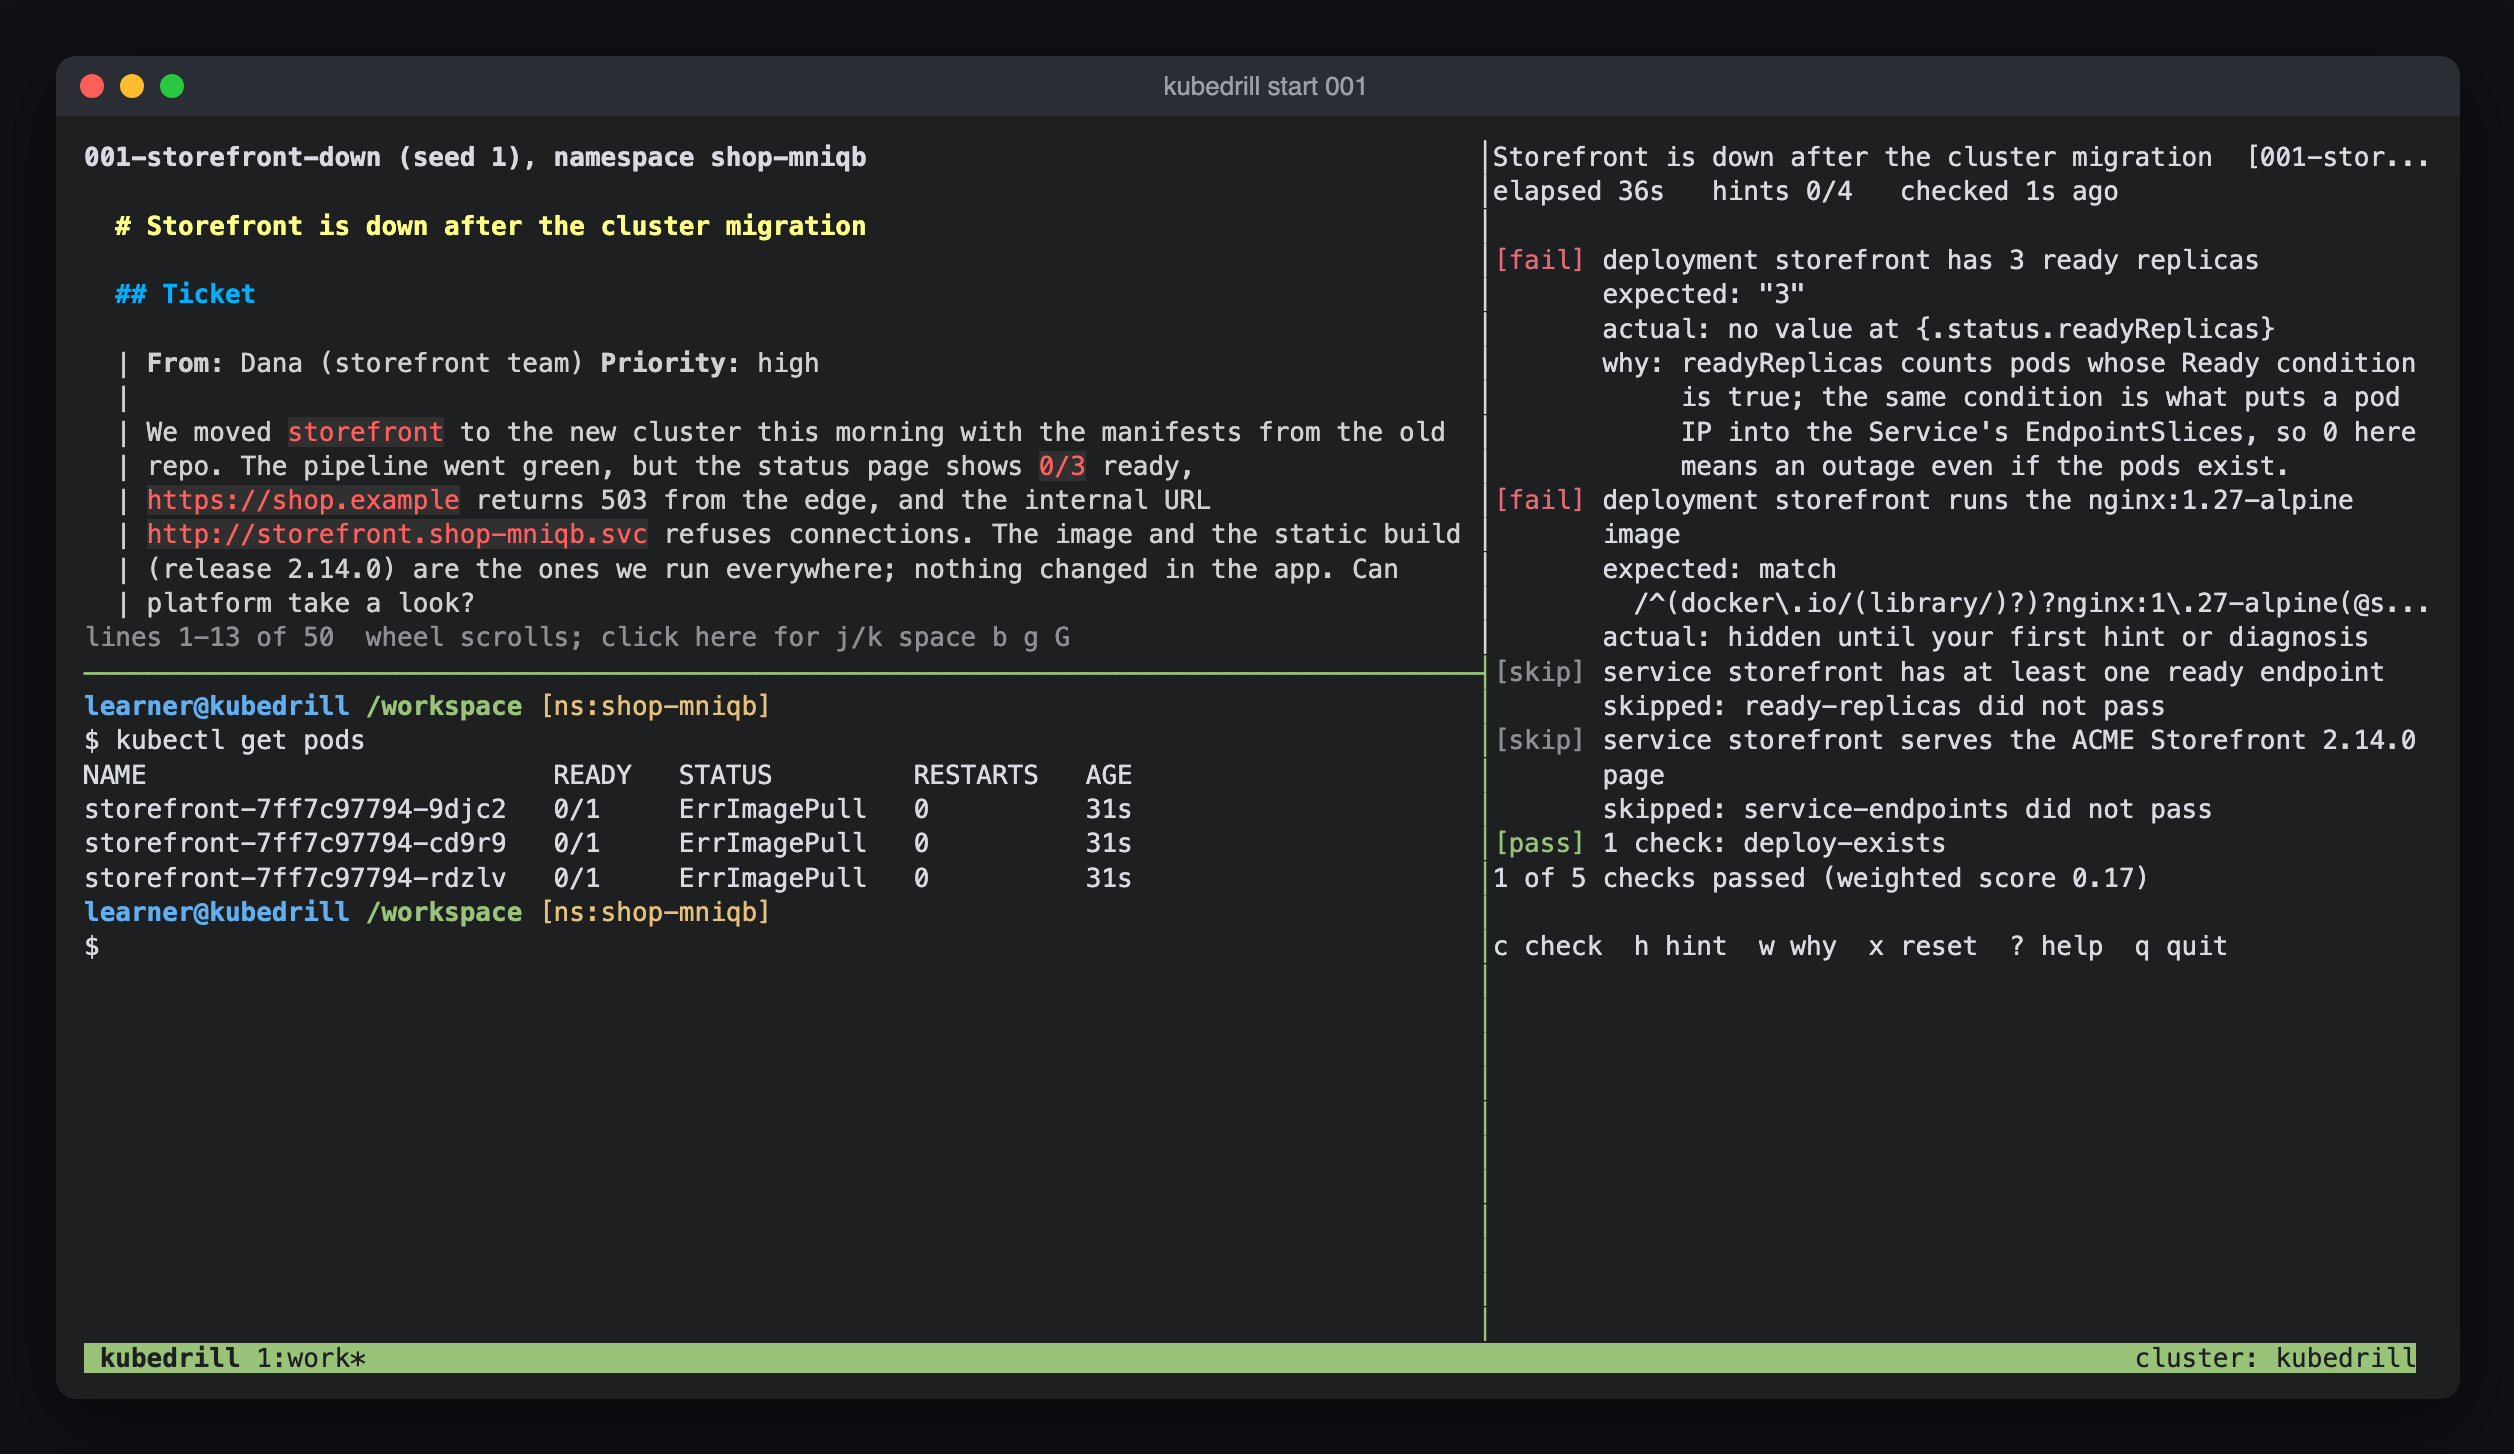
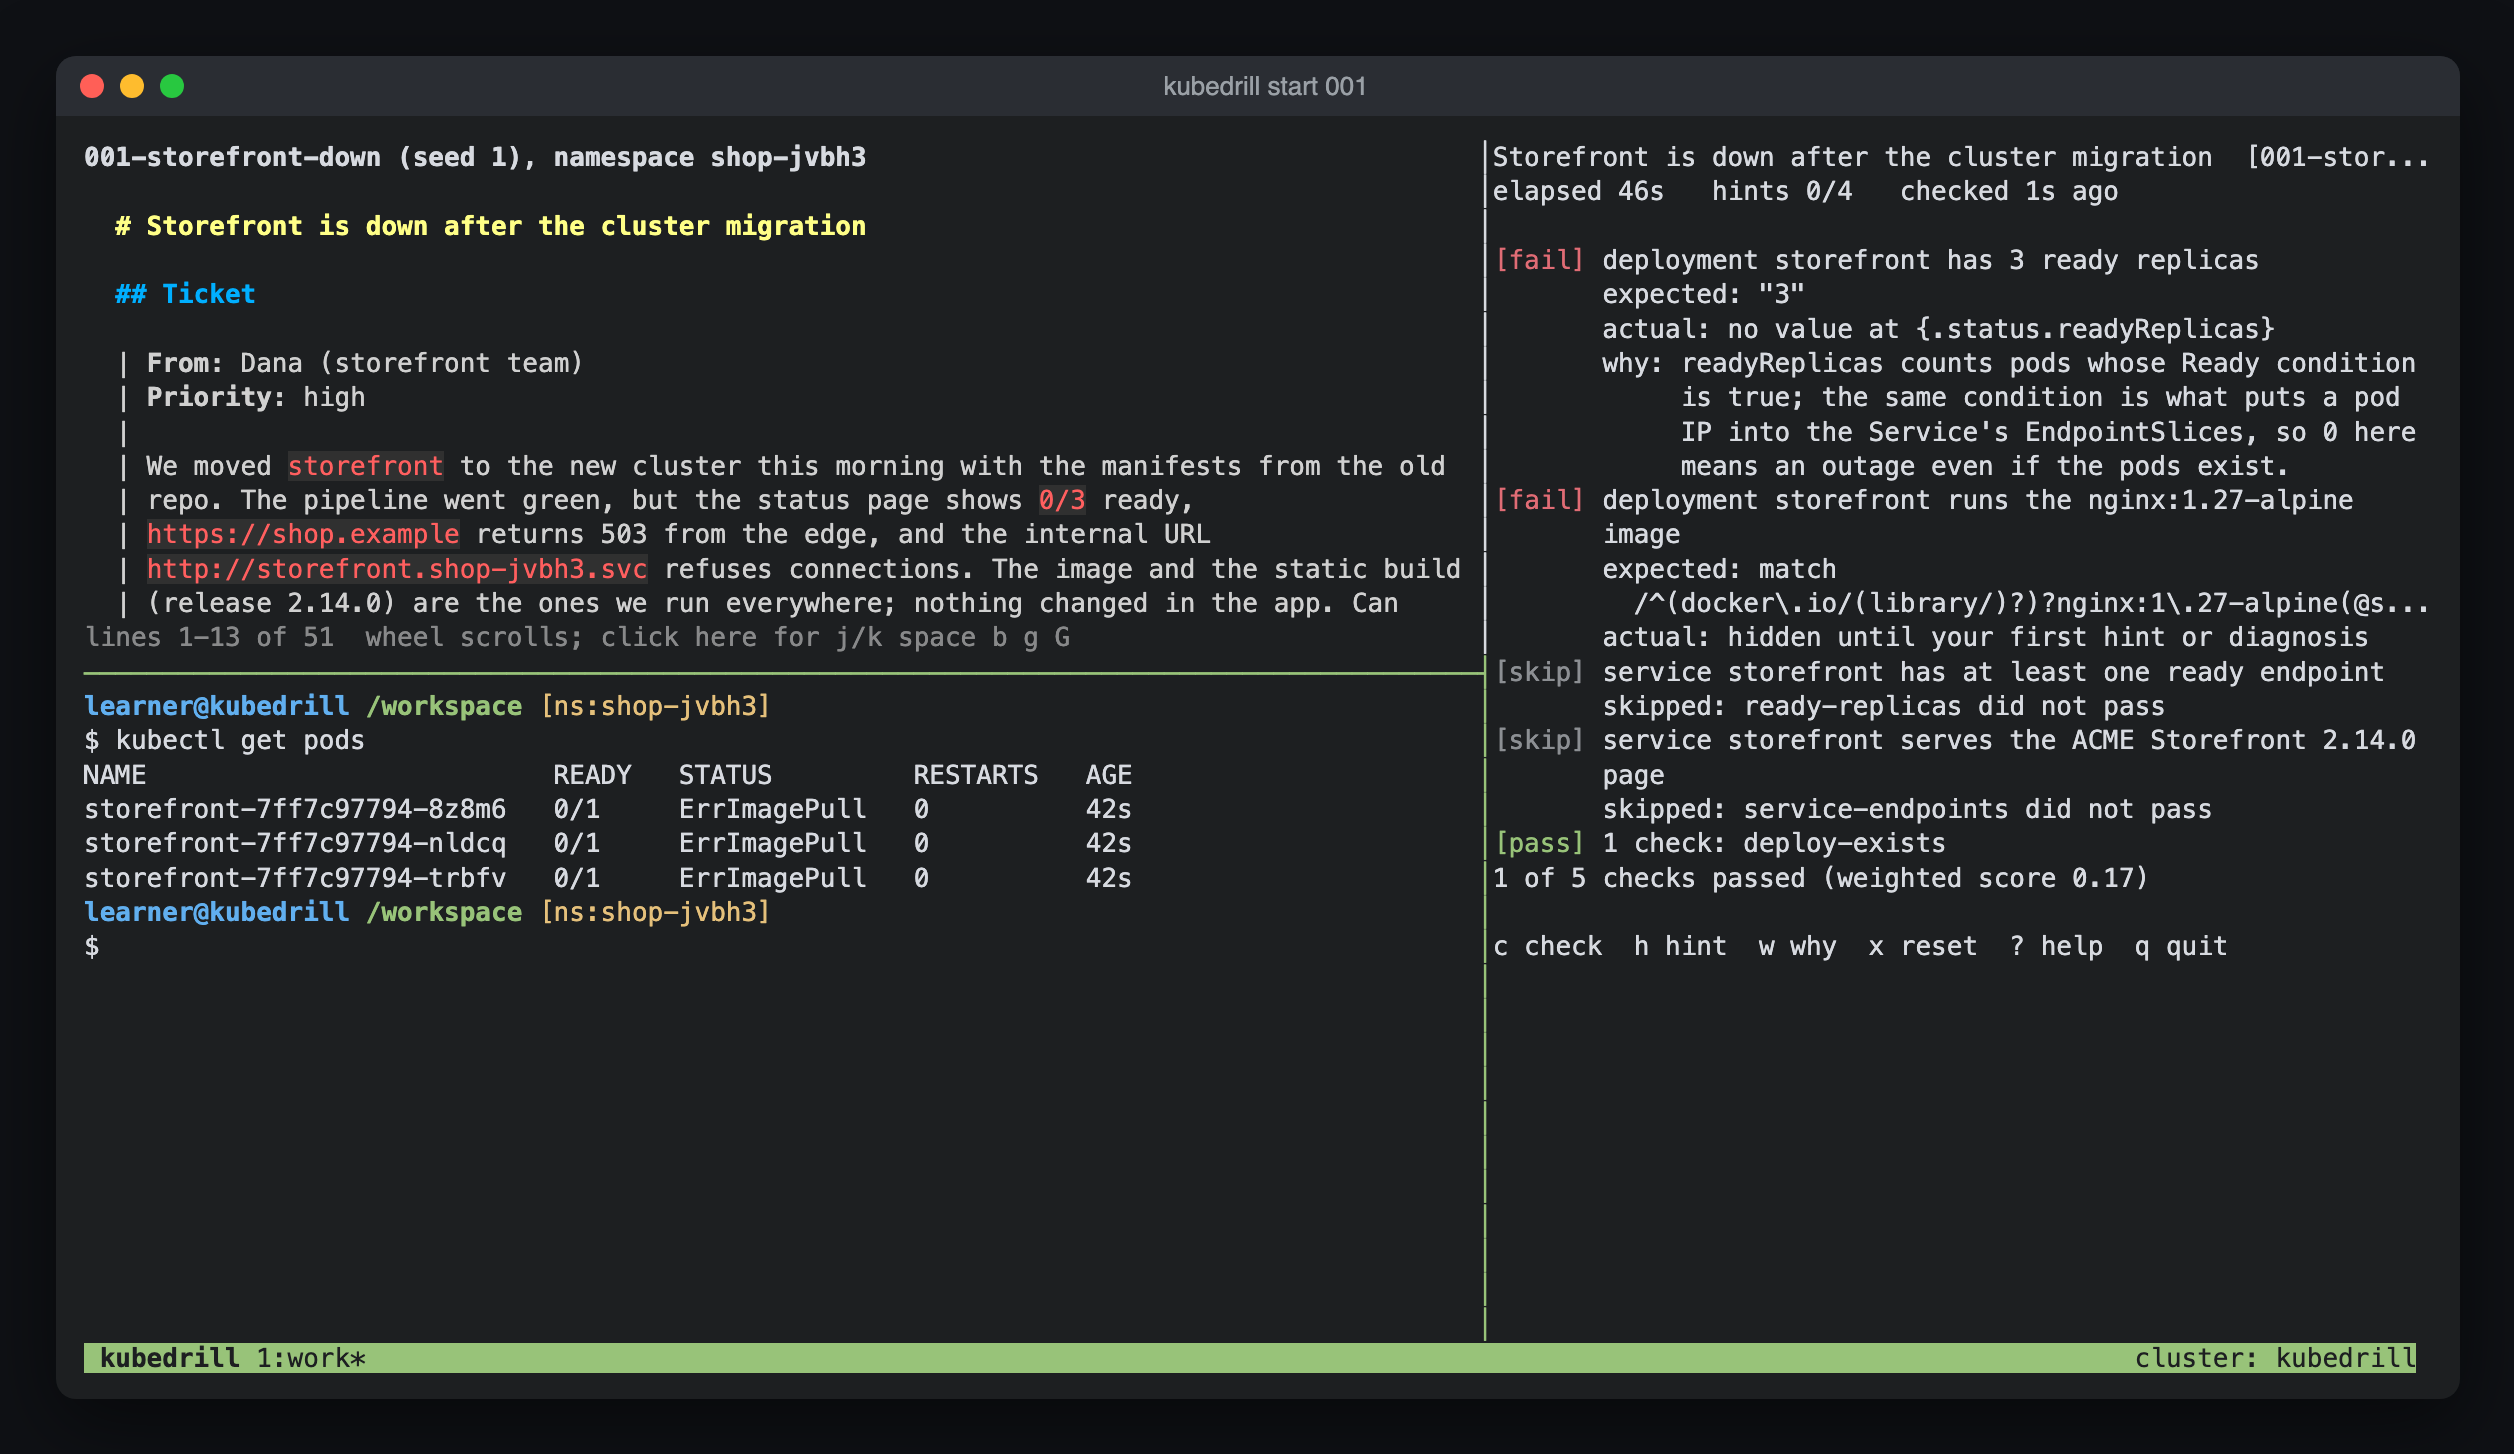
fix(render): keep markdown hard line breaks in rendered tickets

diff --git a/internal/render/markdown.go b/internal/render/markdown.go
@@ -48,6 +48,70 @@ func markdownStyle() ansi.StyleConfig {
 // rendered text is wrapped, so a span never breaks across lines.
 const codeSpace = '\uE000'
 
+// hardBreak stands for a markdown hard line break (a line ending in a
+// backslash or two spaces) while glamour renders, since glamour joins the
+// two lines with a space; splitHardBreaks turns it back into a line break.
+const hardBreak = '\uE001'
+
+// markHardBreaks replaces each hard line break outside fenced code blocks
+// with hardBreak: the trailing backslash or spaces of a line followed by a
+// non-blank line are removed and hardBreak is appended.
+func markHardBreaks(md string) string {
+	lines := strings.Split(md, "\n")
+	fence := ""
+	for i, l := range lines {
+		t := strings.TrimSpace(l)
+		if fence != "" {
+			if strings.HasPrefix(t, fence) {
+				fence = ""
+			}
+			continue
+		}
+		if strings.HasPrefix(t, "```") || strings.HasPrefix(t, "~~~") {
+			fence = t[:3]
+			continue
+		}
+		if i+1 >= len(lines) || strings.Trim(lines[i+1], " >") == "" || t == "" || t == ">" {
+			continue
+		}
+		switch {
+		case strings.HasSuffix(l, "\\") && !strings.HasSuffix(l, "\\\\"):
+			lines[i] = strings.TrimSuffix(l, "\\") + string(hardBreak)
+		case strings.HasSuffix(l, "  "):
+			lines[i] = strings.TrimRight(l, " ") + string(hardBreak)
+		}
+	}
+	return strings.Join(lines, "\n")
+}
+
+// leadingSpace matches the escape sequences and the one space glamour puts
+// after a hard break marker.
+var leadingSpace = regexp.MustCompile(`^((?:\x1b\[[0-9;]*m)*) `)
+
+// splitHardBreaks breaks every rendered line at hardBreak; the new line
+// repeats the margin and block quote bars of the line it came from.
+func splitHardBreaks(rendered string) string {
+	if !strings.ContainsRune(rendered, hardBreak) {
+		return rendered
+	}
+	lines := strings.Split(rendered, "\n")
+	out := make([]string, 0, len(lines))
+	for _, l := range lines {
+		parts := strings.Split(l, string(hardBreak))
+		if len(parts) == 1 {
+			out = append(out, l)
+			continue
+		}
+		m := linePrefix.FindStringSubmatch(StripANSI(l))
+		prefix := m[1] + m[2] + strings.Repeat(" ", len(m[3]))
+		out = append(out, parts[0])
+		for _, p := range parts[1:] {
+			out = append(out, prefix+leadingSpace.ReplaceAllString(p, "$1"))
+		}
+	}
+	return strings.Join(out, "\n")
+}
+
 // listMarker matches the start of a list item: a bullet or an ordered
 // marker after optional indentation.
 var listMarker = regexp.MustCompile(`^\s*(?:[-*+]|\d+[.)])\s+`)

diff --git a/internal/render/render_test.go b/internal/render/render_test.go
@@ -97,6 +97,39 @@ func TestMarkdownJoinsListContinuations(t *testing.T) {
 	}
 }
 
+func TestMarkdownKeepsHardLineBreaks(t *testing.T) {
+	tests := []struct {
+		name    string
+		md      string
+		want    []string
+		notWant []string
+	}{
+		{name: "backslash in a block quote", md: "> **From:** Dana (storefront team)\\\n> **Priority:** high\n>\n> We moved it.\n", want: []string{"| From: Dana (storefront team)\n", "| Priority: high\n"}, notWant: []string{"\uE001", "team) Priority"}},
+		{name: "two spaces in a paragraph", md: "From: Dana  \nPriority: high\n", want: []string{"From: Dana\n", "Priority: high\n"}, notWant: []string{"Dana Priority"}},
+		{name: "soft break stays a space", md: "From: Dana\nPriority: high\n", want: []string{"From: Dana Priority: high"}},
+		{name: "escaped backslash is no break", md: "path C:\\\\\nnext\n", want: []string{"next"}, notWant: []string{"\uE001"}},
+		{name: "backslash before a blank line", md: "end\\\n\nnext paragraph\n", want: []string{"next paragraph"}, notWant: []string{"\uE001"}},
+		{name: "fenced code keeps its backslash", md: "```\nline one \\\nline two\n```\n", want: []string{"line one \\\n"}, notWant: []string{"\uE001"}},
+	}
+	for _, tc := range tests {
+		t.Run(tc.name, func(t *testing.T) {
+			var out strings.Builder
+			term := Terminal{Out: &out, IsTerminal: true, Color: true, Getenv: func(k string) string { return map[string]string{"COLUMNS": "80"}[k] }}
+			got := StripANSI(term.Printer().Markdown(tc.md))
+			for _, w := range tc.want {
+				if !strings.Contains(got, w) {
+					t.Errorf("Markdown(%q):\n%s\nwant it to contain %q", tc.md, got, w)
+				}
+			}
+			for _, w := range tc.notWant {
+				if strings.Contains(got, w) {
+					t.Errorf("Markdown(%q):\n%s\nwant no %q", tc.md, got, w)
+				}
+			}
+		})
+	}
+}
+
 func TestPaneWidthWinsOverColumns(t *testing.T) {
 	var out strings.Builder
 	a := Terminal{Out: &out, IsTerminal: true, Getenv: func(k string) string { return map[string]string{"COLUMNS": "120"}[k] }}

diff --git a/internal/render/render.go b/internal/render/render.go
@@ -123,7 +123,9 @@ func (p Printer) WrapLine(line, cont string) string {
 // and unchanged on a pipe so logs keep it. Glamour renders without wrapping
 // and the result is wrapped afterwards: fenced code blocks and inline code
 // spans never wrap (they overflow), and block quote and list item
-// continuation lines keep the "| " prefix and a hanging indent.
+// continuation lines keep the "| " prefix and a hanging indent. A hard line
+// break (a line ending in a backslash or two spaces) stays a line break,
+// which glamour alone would turn into a space.
 func (p Printer) Markdown(md string) string {
 	if !p.Color {
 		md = strings.TrimRight(md, "\n") + "\n"
@@ -133,7 +135,7 @@ func (p Printer) Markdown(md string) string {
 		src, code := protectCode(joinListContinuations(md))
 		return strings.ReplaceAll(wrapLines(src, p.Width, code), string(codeSpace), " ")
 	}
-	src, code := protectCode(joinListContinuations(md))
+	src, code := protectCode(markHardBreaks(joinListContinuations(md)))
 	r, err := glamour.NewTermRenderer(
 		glamour.WithStyles(markdownStyle()),
 		glamour.WithWordWrap(0),
@@ -145,7 +147,7 @@ func (p Printer) Markdown(md string) string {
 	if err != nil {
 		return md
 	}
-	return strings.ReplaceAll(wrapLines(out, p.Width, code), string(codeSpace), " ")
+	return strings.ReplaceAll(wrapLines(splitHardBreaks(out), p.Width, code), string(codeSpace), " ")
 }
 
 // The styles of the command output and the TUIs.

diff --git a/docs/cli.md b/docs/cli.md
@@ -1166,6 +1166,9 @@ Style:
   non-breaking space padding.
 - A command copied from a ticket pastes back into the shell unchanged.
   Colors are kept.
+- A hard line break (a line ending in a backslash or two spaces, as in the
+  `From:` and `Priority:` lines of a ticket) stays a line break, inside a
+  block quote too; glamour alone joins the two lines with a space.
 - The style is fixed: the CLI never queries the terminal for its background
   color, so nothing typed ahead is consumed by a terminal reply.
   `KUBEDRILL_NO_TERM_QUERY=1`, set inside the workstation, keeps it that way.
